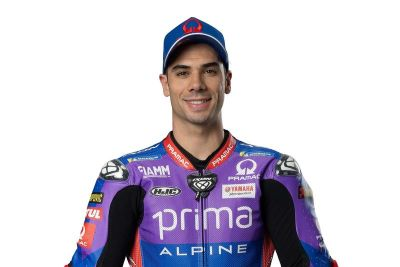
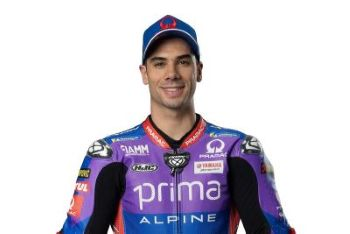
Ejercicios optativos (reglas para listas y enlaces)

diff --git a/estilo/estilo.css b/estilo/estilo.css
@@ -6,6 +6,10 @@
     - color texto: #002b74 (azul oscuro)
     - color texto nav a activo: #FFAF7A (naranja clarito)
     - color fondo nav a encima: #011840 (azul muy oscuro)
+    - color texto de a (http) sin visitar: #011840 (azul oscuro)
+    - color texto de a (http) visitado: #740c3e (rojo burdeos)
+    - color fondo de a (http) encima: #011840 (azul oscuro)
+    - color texto de a (http) encima: #E6F0FF (azul clarito)
 */
 
 /* ESPECIFICIDAD: 001*/
@@ -54,4 +58,81 @@ nav a.active {
 /* Estilos para las migas de navegación */
 header + p {
     font-size: 0.8em;
+}
+
+/*------------------ estilos para los enlaces http ------------------- */
+/* ESPECIFICIDAD: 021*/
+/* Estilos para los enlaces que empiecen con http (los enlaces externos) 
+   que aún no han sido visitados */
+a[href^="http"]:link{
+    color: #011840;         /* Texto: Azul muy oscuro */
+    /* advertencia de color por herencia de color de fondo de body */
+    text-decoration-line: underline;
+}
+
+/* ESPECIFICIDAD: 021*/
+/* Estilos para los enlaces que empiecen con http (los enlaces externos) 
+   que ya han sido visitados */
+a[href^="http"]:visited{
+    color: #740c3e;     /* Texto: Rojo burdeos*/
+    /* advertencia de color por herencia de color de fondo de body */
+}
+
+/* ESPECIFICIDAD: 021*/
+/* Estilos para los enlaces que empiecen con http (los enlaces externos) 
+   cuando el usuario pasa el ratón */
+a[href^="http"]:hover {
+    background-color: #011840;  /* Fondo Azul muy oscuro */
+    color: #E6F0FF;             /* Texto: Azul clarito*/
+    border-radius: 0.25rem;
+}
+
+/*------------------ estilos para las listas ------------------- */
+/* ESPECIFICIDAD: 001*/
+ul { 
+    list-style-type: '🏍'; 
+}
+
+/* ESPECIFICIDAD: 002; ESPECIFICIDAD: 002*/
+li::marker{
+    font-weight: bold;
+}
+
+/* ESPECIFICIDAD: 002; ESPECIFICIDAD: 002*/
+dl>dt{
+    font-weight: bold;
+    text-decoration-line: underline;
+}
+
+/*------------------ estilos para la tabla ------------------- */
+/* ESPECIFICIDAD: 001 */
+table{
+    width: 100%;
+    border-collapse: collapse;
+    margin: 1.5em 0;
+    text-align: center;
+}
+
+/* ESPECIFICIDAD: 001 */
+caption{
+    caption-side: top;
+    font-weight: bold;
+    font-size: 1em;
+    color:#011840;      /* Texto: Azul muy oscuro */
+    /* advertencia de color por herencia de color de fondo de body */
+    margin-bottom: 0.5em;
+}
+
+/* ESPECIFICIDAD: 001 */
+th{
+    background-color: #002b74;          /* Fondo: Azul oscuro*/
+    color:#E6F0FF;
+    padding:0.75em;
+    border: 0.1rem solid #011840;       /* Borde: Azul muy oscuro */  
+}
+
+/* ESPECIFICIDAD: 001 */
+td{
+    padding: 0.75em;
+    border: 0.1rem solid #011840;   /* Borde: Azul muy oscuro */
 }

diff --git a/piloto.html b/piloto.html
@@ -52,7 +52,7 @@
 
         <picture>
             <!-- Moviles -->
-            <source srcset="multimedia/MiguelOliveira_movil2.jpg" media="(max-width: 465px)">
+            <source srcset="multimedia/MiguelOliveira_movil.jpg" media="(max-width: 465px)">
             <!-- Tablets -->
             <source srcset="multimedia/MiguelOliveira_tablet.jpg" media="(max-width: 799px)">
             <!-- Monitor -->
@@ -149,9 +149,9 @@
         </aside>
 
         <section>
-            <h3>Resultados de la temporada 2024</h3>
+            <h3>Temporada 2024</h3>
             <table>
-                <caption>Resultados de Miguel Oliveira - Temporada 2024</caption>
+                <caption>Resultados de Miguel Oliveira</caption>
                 <tbody>
                     <tr>
                         <th scope="col" id="puntos">Puntos obtenidos</th>
